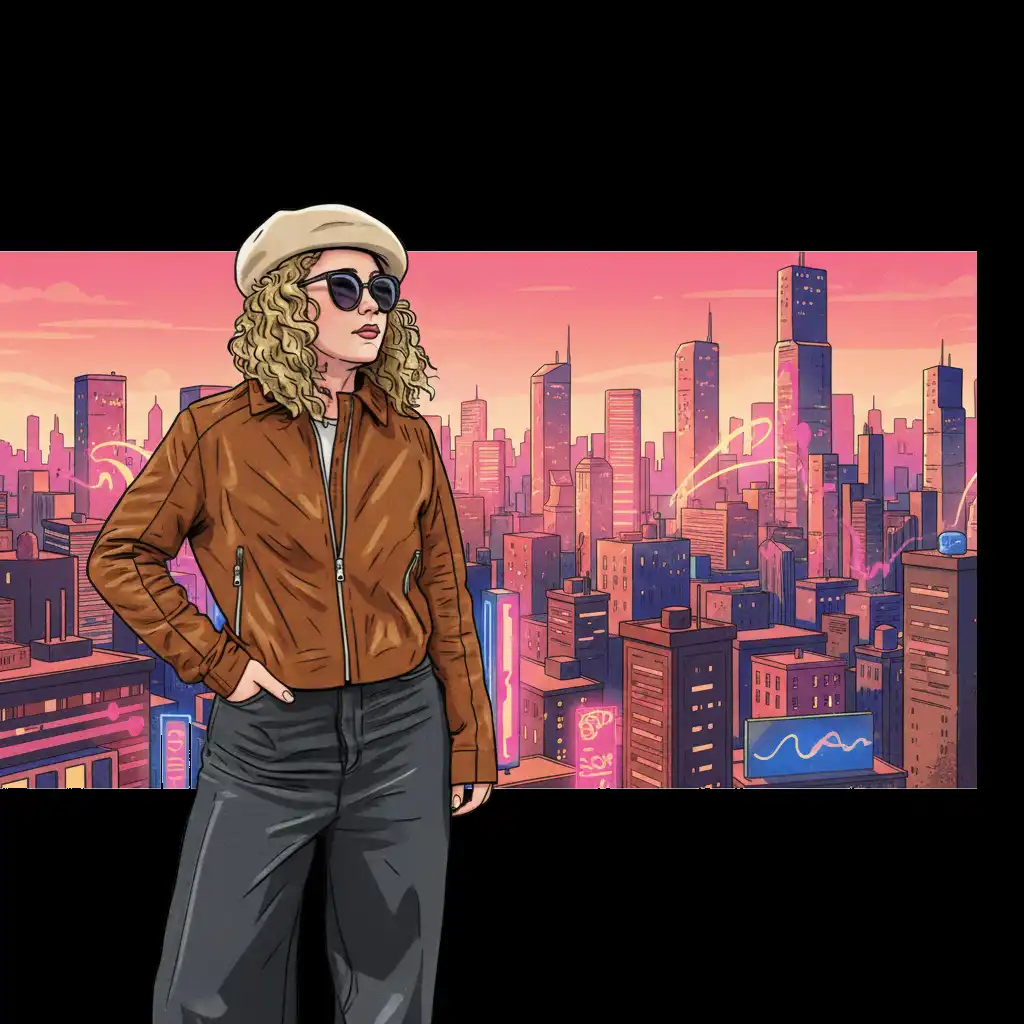
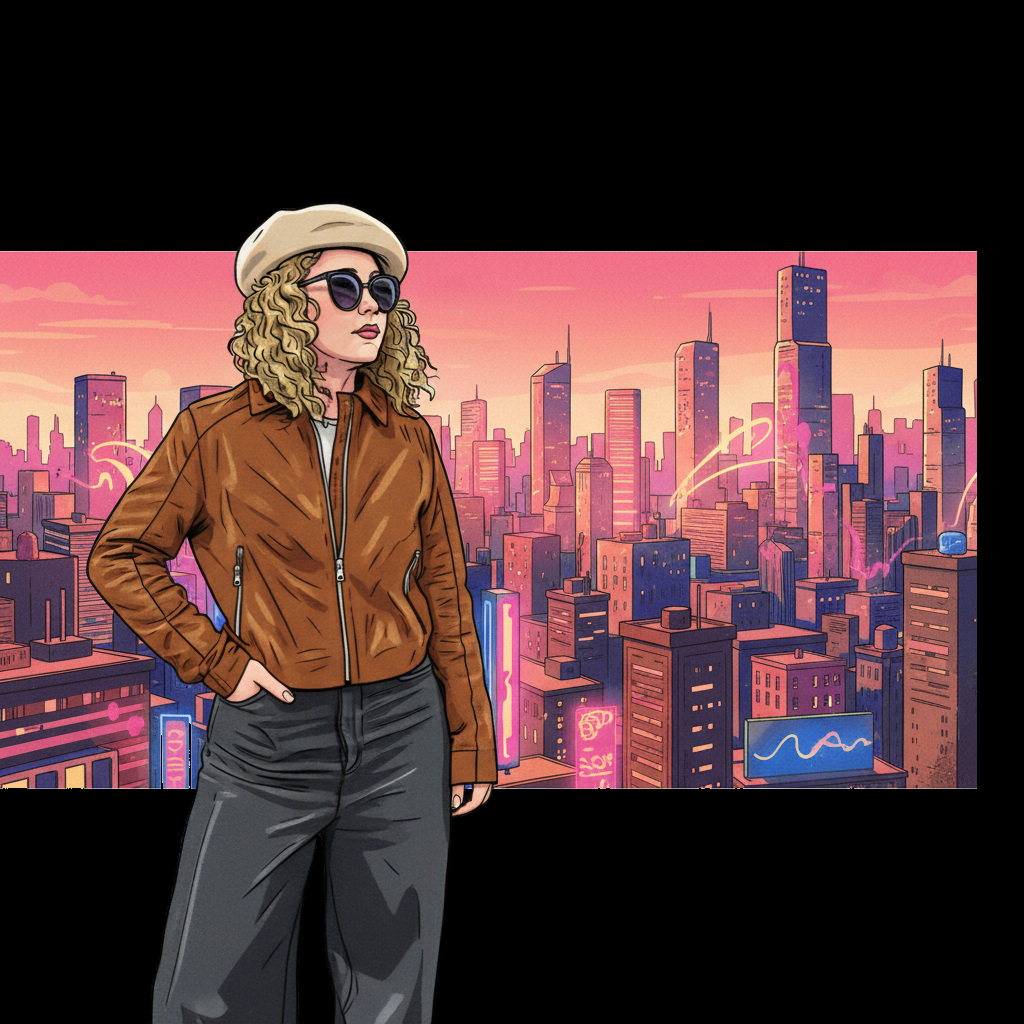
feat: add new song

diff --git a/src/data/albums.ts b/src/data/albums.ts
@@ -25,6 +25,7 @@ const coverSrc24 = '/assets/covers/the-railway-station.webp';
 const coverSrc25 = '/assets/covers/stop-the-whales.webp';
 const coverSrc26 = '/assets/covers/underwater.webp';
 const coverSrc27 = '/assets/covers/hey-johnny.webp';
+const coverSrc28 = '/assets/covers/folk-song-for-goodbye.webp';
 
 export const albumCoverSrcs = [
   coverSrc1,
@@ -54,9 +55,22 @@ export const albumCoverSrcs = [
   coverSrc25,
   coverSrc26,
   coverSrc27,
+  coverSrc28,
 ];
 
 export const albums = [
+  {
+    albumId: 'folk-song-for-goodbye',
+    coverSrc: coverSrc28,
+    title: 'Folk Song for Goodbye',
+    audioSrc: '/audios/folk-song-for-goodbye.opus',
+    lyricsPath: '/lyrics/folk-song-for-goodbye.txt',
+    appleMusicLink: 'https://music.apple.com/us/song/folk-song-for-goodbye/6778273653',
+    spotifyLink: 'https://open.spotify.com/album/6vLrNCLbDmLZrG6sQv5fco?si=YF-_2p27SbOXMC18o2A5SA',
+    youtubeLink: 'https://youtu.be/QCVXVF6ZACA?si=cr18OTzSPF9Sk2t6',
+    amazonLink:
+      'https://amazon.com/music/player/albums/B0H4KJYW35?marketplaceId=ATVPDKIKX0DER&musicTerritory=US&ref=dm_sh_W5trt3QtWDie6H6VmisWb6CoJ',
+  },
   {
     albumId: 'hey-johnny',
     coverSrc: coverSrc27,

diff --git a/src/app/about/page.module.css b/src/app/about/page.module.css
@@ -31,7 +31,7 @@
 }
 
 @media screen and (max-width: 840px) and (orientation: portrait),
-screen and (min-height: 1262px) {
+screen and (min-height: 1262px) and (max-width: 1260px) and (orientation: portrait) {
   .about {
     height: auto;
     overflow: visible;

diff --git a/src/components/AboutClient/AboutClient.module.css b/src/components/AboutClient/AboutClient.module.css
@@ -131,7 +131,7 @@ screen and (max-width: 950px) and (min-height: 1300px) {
 }
 
 @media screen and (max-width: 840px) and (orientation: portrait),
-screen and (min-height: 1262px) {
+screen and (min-height: 1262px) and (max-width: 1260px) and (orientation: portrait) {
   .content {
     max-width: 90vw;
     margin: 0 auto;